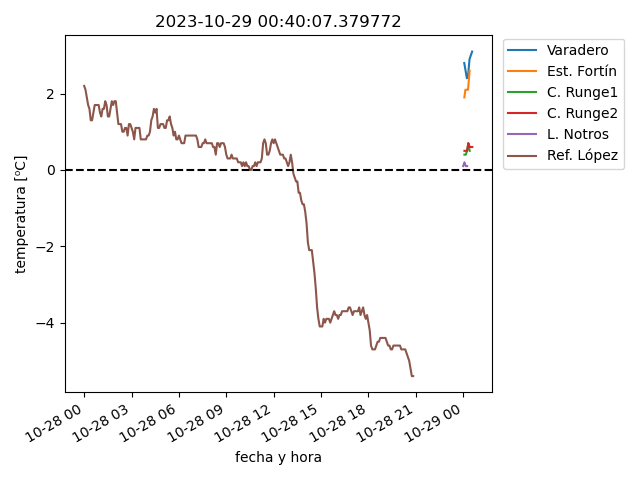
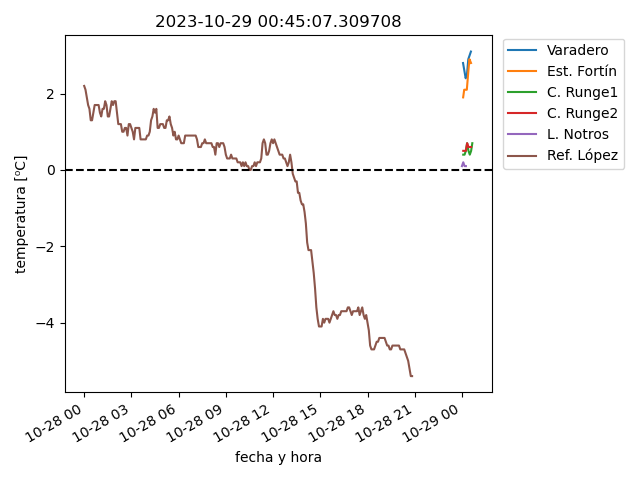
actualiza datos

diff --git a/estaciones/estacion2.html b/estaciones/estacion2.html
@@ -13,12 +13,12 @@
     </tr>
     <tr>
      <td class="stats_data">
-      2023-10-29 00:24:35
+      2023-10-29 00:34:35
      </td>
     </tr>
     <tr>
      <td class="stats_data">
-      TEMPERATURA / -1.8⁰C
+      TEMPERATURA / -1.6⁰C
      </td>
     </tr>
     <tr>
@@ -28,12 +28,12 @@
     </tr>
     <tr>
      <td class="stats_data">
-      996.28hPa
+      996.61hPa
      </td>
     </tr>
     <tr>
      <td class="stats_data">
-      16.7/35.4 km/hr WNW
+      22.6/32.2 km/hr WNW
      </td>
     </tr>
     <tr>

diff --git a/estaciones/estacion3.html b/estaciones/estacion3.html
@@ -13,12 +13,12 @@
     </tr>
     <tr>
      <td class="stats_data">
-      2023-10-29 00:24:51
+      2023-10-29 00:39:31
      </td>
     </tr>
     <tr>
      <td class="stats_data">
-      TEMPERATURA / 0.3⁰C
+      TEMPERATURA / 0.5⁰C
      </td>
     </tr>
     <tr>
@@ -28,12 +28,12 @@
     </tr>
     <tr>
      <td class="stats_data">
-      987.34hPa
+      987.03hPa
      </td>
     </tr>
     <tr>
      <td class="stats_data">
-      22.5/33.6 km/hr NNW
+      23.9/34.6 km/hr NNW
      </td>
     </tr>
     <tr>
